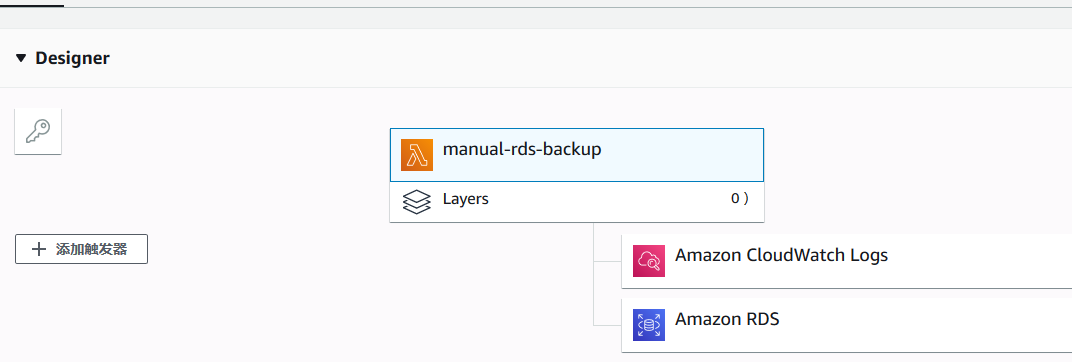
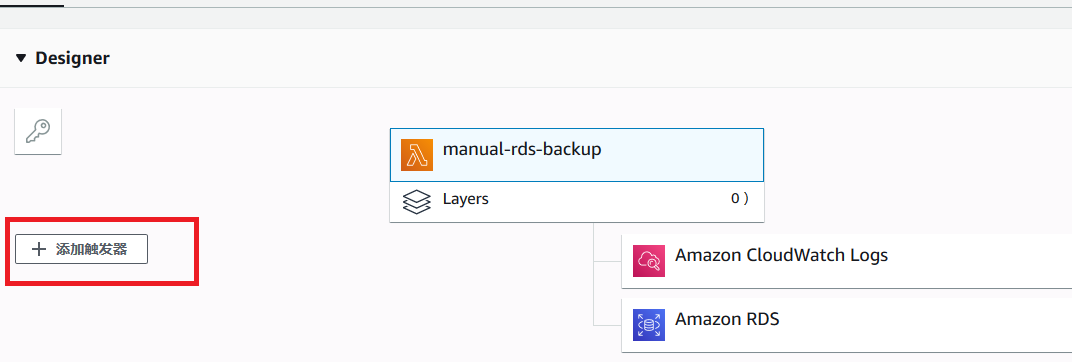
modify readme

Changed region(s): [[0.0, 0.5773, 0.1847, 0.7901]]

diff --git a/README.md b/README.md
@@ -1,45 +1,130 @@
 # RDS定时备份
 
-本脚本自动创建一个lambda以及相关资源，使得能够自动对指定RDS每隔两小时备份一次。
+## 应用场景
+
+目前RDS的自动备份方法是在每日的固定时间进行备份，换言之备份频率为固定每日一次，若想要实现小时级或者分钟级的备份频率则无法通过这种方法来解决。因此，本文提供了一种解决方案：通过AWS CloudWatch Events定时任务触发AWS Lambda函数来执行备份RDS的操作。
+
+本文提供了手动部署的流程以及相关lambda的代码。同样，本文还提供了一个CloudFormation自动化部署脚本。该脚本可以快速自动完成部署，但相比起手动创建来说会多创建2个标准参数 （AWS System Manager服务中的Parameter store服务，具体说明参见下文）。
+
+## 解决方案架构图
+
+
+
+### 手动部署
+
+![](https://raw.githubusercontent.com/fanyizhe/aws-rds-auto-snapshot/dev/pic/rds-backup.png)
+
+**创建的资源：**
+
+- [CloudWatch Events](https://docs.aws.amazon.com/zh_cn/AmazonCloudWatch/latest/events/WhatIsCloudWatchEvents.html) ：使用 CloudWatch Events 来计划使用 cron 或 rate 表达式在某些时间自行触发的自动化操作。
+
+- [Lambda](https://docs.aws.amazon.com/zh_cn/lambda/latest/dg/welcome.html) : 计算服务，可使您无需预配置或管理服务器即可运行代码。
+
+- [IAM Role](https://docs.aws.amazon.com/zh_cn/IAM/latest/UserGuide/id_roles_terms-and-concepts.html) : IAM 角色类似于 IAM 用户，因为它是一个 AWS 身份，该身份具有确定其在 AWS 中可执行和不可执行的操作的权限策略。
+
+- [RDS](https://docs.aws.amazon.com/zh_cn/AmazonRDS/latest/UserGuide/Welcome.html) : 关系型数据库服务
+
+### 自动部署
+
+![](https://raw.githubusercontent.com/fanyizhe/aws-rds-auto-snapshot/dev/pic/rds-backup-auto.png)
+
+相比手动部署，自动部署多运用了Parameter Store服务创建了两个参数，用以在CloudFormation脚本的创建过程中，向Lambda中指定所需的参数。
+
+- [Parameter store](https://docs.aws.amazon.com/zh_cn/systems-manager/latest/userguide/systems-manager-parameter-store.html) : 将 Parameter Store 参数与其他 Systems Manager 功能和 AWS 服务配合使用，以从中央存储检索密钥和配置数据。  
+
+
+## 手动部署
+
+- 1、创建基础的Lambda
+
+    在Lambda创建界面，选择 **从头开始创作**，运行语言选择Python3.7。
+    在 **权限 - 执行角色** 中选择 **创建具有基本Lambda权限的角色**
+
+    ![](https://raw.githubusercontent.com/fanyizhe/aws-rds-auto-snapshot/dev/pic/manual-create-lambda.png)
+
+- 2、填入代码
+
+    在该Lambda函数界面中，将以下代码粘贴进函数代码中，修改参数：
+    
+    - 第四行 MAX_SNAPSHOTS : 您想保存最大的副本数量(最大100)
+    - 第五行 DB_INSTANCE_NAME ：您想应用该脚本的RDS实例名称
+    
+    然后选择右上角 **保存**。
+
+    ```
+    import boto3
+    import time
+    def lambda_handler(event, context):
+        MAX_SNAPSHOTS = 5
+        DB_INSTANCE_NAME = 'test'
+        clientRDS = boto3.client('rds')
+        db_snapshots = clientRDS.describe_db_snapshots(
+            SnapshotType='manual',
+        )['DBSnapshots']
+        if len(db_snapshots) >= MAX_SNAPSHOTS:
+            oldest_snapshot = db_snapshots[0]
+            for db_snapshot in db_snapshots:
+                if db_snapshots[0]['SnapshotCreateTime'] > db_snapshot['SnapshotCreateTime']:
+                    oldest_snapshot = db_snapshot
+            clientRDS.delete_db_snapshot(DBSnapshotIdentifier=oldest_snapshot['DBSnapshotIdentifier'])
+        create_snapshot = clientRDS.create_db_snapshot(
+            DBSnapshotIdentifier=DB_INSTANCE_NAME + time.strftime("%Y-%m-%d-%H-%M-%S", time.localtime()),
+            DBInstanceIdentifier=DB_INSTANCE_NAME
+        )
+    ```
+    ![](https://raw.githubusercontent.com/fanyizhe/aws-rds-auto-snapshot/dev/pic/save_code.png)
+
+
+- 3、添加IAM Role权限
+
+    在下方 **执行界面** 中，点击 **查看your_iam_role角色** , 进入该角色的摘要中。
+
+    ![](https://raw.githubusercontent.com/fanyizhe/aws-rds-auto-snapshot/dev/pic/iam_role.png)
+
+    在 **摘要界面** 中，选择 **添加内联策略** ，按照下图选定指定规则，然后输入该内联策略名称后创建。
+
+    ![](https://raw.githubusercontent.com/fanyizhe/aws-rds-auto-snapshot/dev/pic/iam_add_role.png)
+
+    ![](https://raw.githubusercontent.com/fanyizhe/aws-rds-auto-snapshot/dev/pic/create_rules.png)
+
+- 4、添加触发器
+
+    在该Lambda函数界面，选择 **添加触发器**。
+
+    ![](https://raw.githubusercontent.com/fanyizhe/aws-rds-auto-snapshot/dev/pic/console_trigger.png)
+
+    在 **触发器配置** 中，选择 **CloudWatch Events**，规则选择 **创建新规则** ，**规则类型** 选择 **计划表达式**，按规则填入(e.g. 每两小时则为**rate(2 hours)**, 详情参见[规则的计划表达式](https://docs.amazonaws.cn/AmazonCloudWatch/latest/events/ScheduledEvents.html))
+
+    ![](https://raw.githubusercontent.com/fanyizhe/aws-rds-auto-snapshot/dev/pic/input_trigger.png)
+
+
+- 5、创建完成
+
+    至此全部手动部署工作已经全部完成。
+
+## 自动部署
 
 您可以通过点击下方 **Quick Start** 链接直接进入创建页面。
 
-[Quick Start](https://console.amazonaws.cn/cloudformation/home?region=cn-north-1#/stacks/new?stackName=backup-rds&templateURL=https://quickstart-rds-backup.s3.cn-north-1.amazonaws.com.cn/rds-backup.yaml) 
+[![Image link china](http://cdn.quickstart.org.cn/assets/ChinaRegion.png)](https://console.amazonaws.cn/cloudformation/home?region=cn-north-1#/stacks/new?stackName=backup-rds&templateURL=https://quickstart-rds-backup.s3.cn-north-1.amazonaws.com.cn/rds-backup.yaml) 
 
-## 前提条件
 
-需要在目标区域拥有RDS。
-
-## 实现步骤
-
-- 在您的AWS账户中启动AWS CloudFormation 模板。
-
-![](https://raw.githubusercontent.com/fanyizhe/rds-backup/master/pic/CFN.png)
+### 要点
 
 - 检查导航栏右上角显示的所在区域，根据需要进行更改。
 
 - 在 **指定模板** 页面上，保留模板 URL 的默认设置，然后选择 **下一步** 。
-![](https://raw.githubusercontent.com/fanyizhe/rds-backup/master/pic/CFN_template.png)
+![](https://raw.githubusercontent.com/fanyizhe/aws-rds-auto-snapshot/dev/pic/CFN_template.png)
 
 - 在 **指定堆栈详细信息** 页面上，填写堆栈名称、您想应用该脚本的RDS实例名称,以及您想保存最大的副本数量(最大100)，完成后选择 **下一步**
 
     - rdsInstanceName: 您想应用该脚本的RDS实例名称
     - MaxSnapshotNumber: 您想保存最大的副本数量(最大100)
 
-![](https://raw.githubusercontent.com/fanyizhe/rds-backup/master/pic/specifyInfo.png)
+![](https://raw.githubusercontent.com/fanyizhe/aws-rds-auto-snapshot/dev/pic/specifyInfo.png)
 
-- （可选）在 **配置堆栈选项** 页面上，您可以为堆栈中的资源 [指定标签](https://docs.aws.amazon.com/AWSCloudFormation/latest/UserGuide/aws-properties-resource-tags.html) (键/值对) 并 [设置高级选项](https://docs.aws.amazon.com/AWSCloudFormation/latest/UserGuide/cfn-console-add-tags.html)。在完成此操作后，选择 **下一步** 。
 
-- 在 **审核** 页面上，查看并确认模板设置。选择 **功能** 下的复选框，以确认模板将创建 IAM 资源。
-
-![](https://raw.githubusercontent.com/fanyizhe/rds-backup/master/pic/capability.png)
-
--  选择 **创建堆栈** 以部署堆栈。
-- 监控堆栈的状态。当状态为 **CREATE\_COMPLETE** 时，表示脚本及资源创建已完成。
-
-![](https://raw.githubusercontent.com/fanyizhe/rds-backup/master/pic/create_complete.png)
-
-## （可选）自定义修改备份时间
+### （可选）自定义修改备份时间
 
 该脚本默认自动创建备份的时间为2小时。
 
@@ -47,16 +132,16 @@
 
 - 在该cloudformation的 **资源** 选项中点击类型为 **AWS::Lambda::Function** 的实体ID链接，进入该lambda函数界面。
 
-![](https://raw.githubusercontent.com/fanyizhe/rds-backup/master/pic/CFN_lambda.png)
+![](https://raw.githubusercontent.com/fanyizhe/aws-rds-auto-snapshot/dev/pic/CFN_lambda.png)
 
 - 在 **Designer** 界面中点击 **CloudWatch Events** 图标， 在下方出现的触发事件界面中点击该规则链接，进入 **事件规则** 页面。
 
-![](https://raw.githubusercontent.com/fanyizhe/rds-backup/master/pic/cloudWatch_event.png)
+![](https://raw.githubusercontent.com/fanyizhe/aws-rds-auto-snapshot/dev/pic/cloudWatch_event.png)
 
 - 在该事件规则界面中，选择右上角 **操作** 按钮，点击进入 **编辑** 页面。
 
-![](https://raw.githubusercontent.com/fanyizhe/rds-backup/master/pic/edit_event.png)
+![](https://raw.githubusercontent.com/fanyizhe/aws-rds-auto-snapshot/dev/pic/edit_event.png)
 
 - 在 **事件源** 界面中，您可以修改触发事件的固定频率，或者使用 [规则的计划表达式](https://docs.amazonaws.cn/AmazonCloudWatch/latest/events/ScheduledEvents.html)，完成后点击 **配置详细信息** 进入下一页面，然后点击 **保存修改** 。
 
-![](https://raw.githubusercontent.com/fanyizhe/rds-backup/master/pic/edit_event2.png)
+![](https://raw.githubusercontent.com/fanyizhe/aws-rds-auto-snapshot/dev/pic/edit_event2.png)
